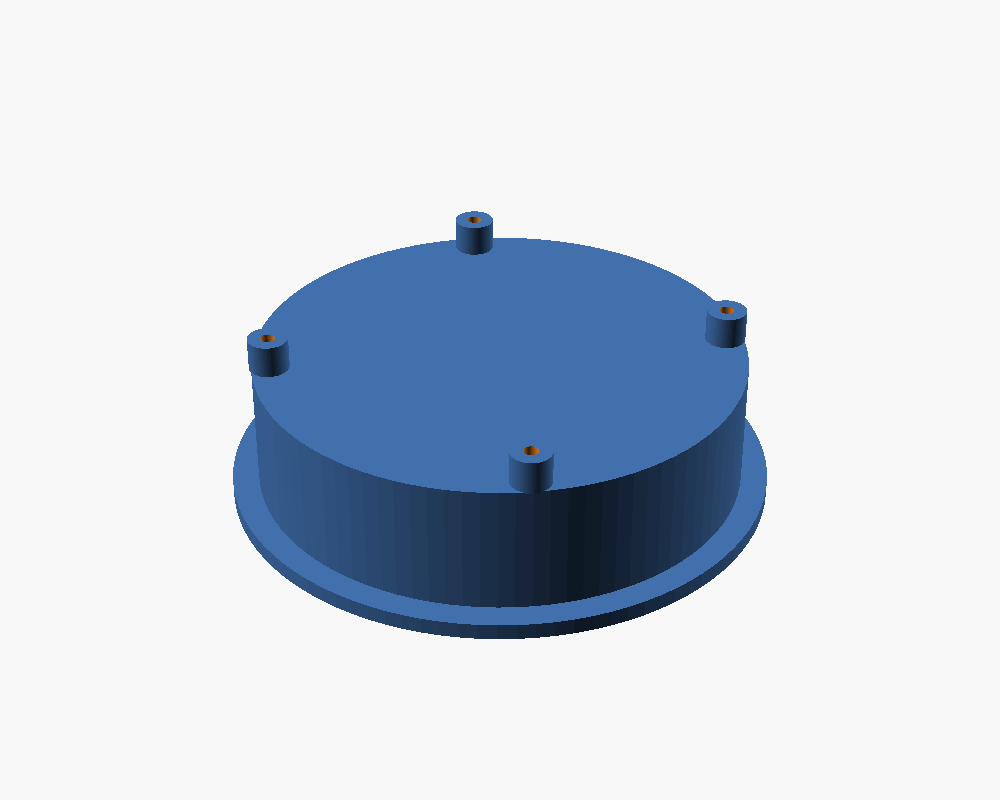
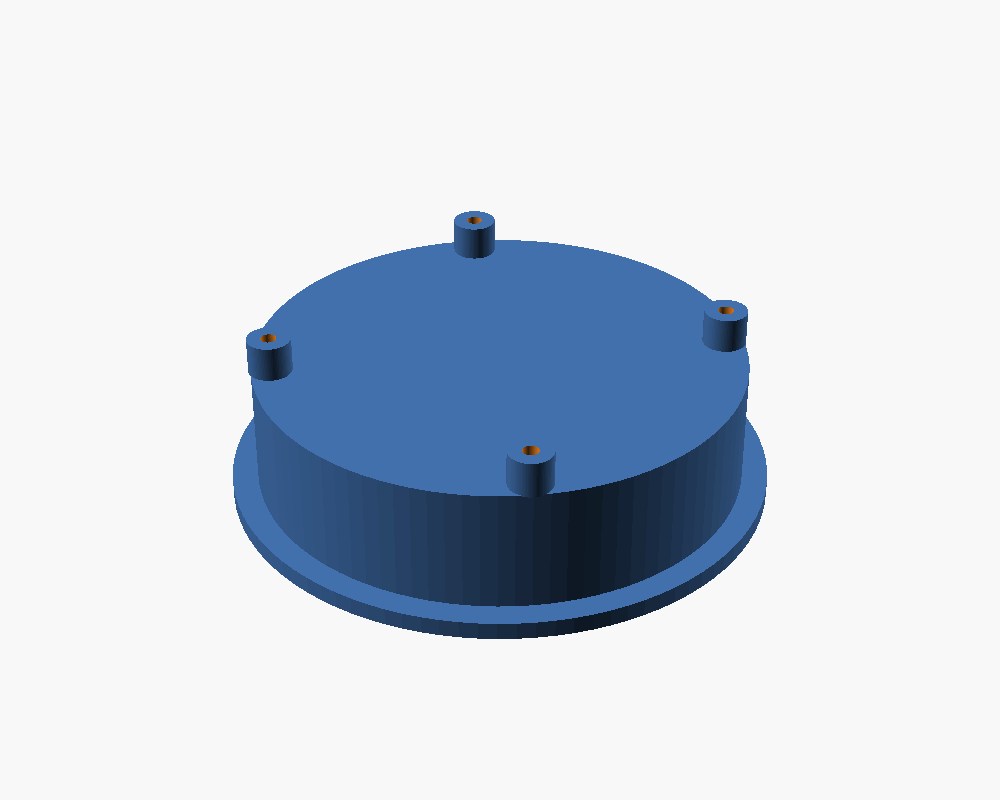
docs: 屏幕与主控定稿（1.43C-EN），遮光盖按新屏重算
- 选 1.43C 的决定性理由：1.75 的窗口压边只剩 0.6mm，一个打印公差就露 PCB
- 遮光盖 Ø68→Ø62（89% 球径），窗 Ø50→Ø39，板 Ø51.2→Ø46
- 眼睛像素 59×147→71×178（同 20% 球径，屏密度不同）
- README 关键尺寸、目录、进度同步

diff --git a/docs/14_screen_mcu.md b/docs/14_screen_mcu.md
@@ -1,0 +1,129 @@
+# 14 · 屏幕与主控：定稿方案
+
+> 球已验证（Ø70 实心半球，比例 20% 眼高效果确认）。这一章只解决一件事：**买哪块屏、哪块板**。
+> 结论一句话：**微雪 ESP32-S3-Touch-AMOLED-1.43C-EN**。
+
+---
+
+## 14.1 两个候选（都是微雪一体板，屏+主控+电源全集成）
+
+| | ① **1.43C-EN** | ② 1.75-B（31262） |
+|---|---|---|
+| SKU / 价格 | ¥173.72 | ¥179.78~209 |
+| 整板直径 | **Ø46.0** | Ø51.0 |
+| 屏有效区 | **Ø36.75** | Ø44.4 |
+| 屏占球径（Ø70） | **52.5%** | 63.5% |
+| 分辨率 | 466×466 | 466×466 |
+| 像素密度 | **316 ppi** | 266 ppi |
+| 板厚（屏/板） | 6.2 + 4.0 = 10.2 | 12.1 |
+| 触摸 | CST820 | CST9217 |
+| 双麦 + 编解码 | C 版有 | 有 |
+| IMU / RTC / TF / 电池座 | 全有 | 全有 |
+| 小智固件 | ⚠ 需确认 | ✅ 商品页写明支持 |
+
+---
+
+## 14.2 为什么选 1.43：**窗口压边**这一条就足够决定
+
+遮光盖中心要开一个窗，窗口必须满足两个条件：
+
+```
+屏直径  <  窗口直径  <  板直径
+（不挡显示）        （压住板边，不露出 PCB）
+```
+
+| 方案 | 屏 | 窗口 | 板 | **压边余量** |
+|---|---|---|---|---|
+| 1.43C | Ø36.75 | Ø39 | Ø46.0 | **单边 3.5mm** ✅ |
+| 1.75-B | Ø44.4 | Ø50 | Ø51.2 | **单边 0.6mm** ⚠ |
+
+1.75 那个 0.6mm，意味着：
+
+- 打印件公差 ±0.2、玻璃贴合偏差 ±0.1、屏幕本身公差 ±0.1 → 三项叠加就把余量吃完了
+- 一旦超差，窗口边缘会**露出一圈 PCB**（绿/黑板的边），正面看就是"黑面上有个亮环"
+- 而这个产品最不能出的问题就是"屏边可见"
+
+**1.43 的 3.5mm 压边，把这条路彻底堵死。**
+
+## 14.3 另外三条加分
+
+1. **像素密度高 19%**（316 vs 266 ppi）：眼睛 178px 高 vs 147px，玻璃后看边缘更干净
+2. **板小 5mm**：机身可以从 Ø58 收到 Ø56，在 Ø70 的球下更协调
+3. **便宜 ¥30~35**
+
+代价：小智固件支持要确认一次（见 14.6）。**这个风险可控**——最坏情况用通用 `esp32-s3-dev` 配置 + 自定义引脚，微雪的 ESP-IDF 例程是齐的。
+
+---
+
+## 14.4 尺寸重算（1.43 版）
+
+| 项 | 值 | 说明 |
+|---|---|---|
+| 球 | Ø70 实心半球，h=35 | 已有 |
+| **黑遮光盖** | **Ø62 × 2**（89% 球径） | 原来定 68，太贴边；62 能留 4mm 玻璃边，与参考产品一致 |
+| **中心窗** | **Ø39** | 屏 Ø36.75 + 压边 1.1 |
+| 遮光盖容腔 | Ø47.4 × 11.7 | 板 Ø46.2 + 单边 0.6 |
+| 主板 | Ø46 × 10.2 | 屏面朝前，落在窗里 |
+| 机身 | 约 Ø56 × 24 | 电池 + 喇叭 + 灯环 |
+| 整机 | 约 Ø70 × 66 | 比 1.75 方案矮 9mm |
+
+### 眼睛在新屏上的像素（466px / 36.75mm = 12.68 px/mm）
+
+| 项 | mm | px |
+|---|---|---|
+| 眼高 | 14.0（球径 20%） | **178** |
+| 眼宽 | 5.63（8.0%） | **71** |
+| 中心距 | 18.13（25.9%） | **230** |
+| 双眼总宽 | 23.76 | 301（屏宽 466，余 165）|
+
+> 换屏后 UI 参数要跟着改：`docs/13` 里的 59×147/190 是 1.75 的数，1.43 用 **71×178/230**。
+> 形状、动效、状态全部不变，只是数字缩放。
+
+---
+
+## 14.5 采购清单
+
+| # | 件 | 规格 | 数量 | 单价 |
+|---|---|---|---|---|
+| 1 | **主控+屏** | 微雪 **ESP32-S3-Touch-AMOLED-1.43C-EN** | 1 | ¥173.72 |
+| 2 | 锂电池 | 3.7V 1000mAh 带保护板，**MX1.25 2P** | 1 | ¥22 |
+| 3 | 喇叭 | Φ28 8Ω 2W 带腔体，**MX1.25 2P** | 1 | ¥12 |
+| 4 | Type-C 延长线 | 公转母 10cm 细线 | 1 | ¥8 |
+| 5 | 缓冲电池（可选） | 3.7V 300mAh，MX1.25 | 1 | ¥15 |
+
+**合计 ≈ ¥230**（含可选的缓冲电池）
+
+> 第 5 项的作用：AXP2101 在没有电池、只有外部 5V 时是最不可靠的工作点。¥15 换"工况确定 + 拿起不断电 + RTC 不走时"，值。
+
+---
+
+## 14.6 下单前必须确认的三件事
+
+| # | 问什么 | 为什么 | 如果答案是否 |
+|---|---|---|---|
+| 1 | **“1.43C 有没有小智（xiaozhi-esp32）的板卡配置？”** | 决定固件是"刷现成的"还是"自己配引脚" | 用通用 `esp32-s3-dev` 配置，按微雪例程填引脚，多花半天 |
+| 2 | **“C 版是不是带双麦克风和音频编解码？”** | 不带麦就做不了语音，只能当摆件 | 改买 1.43-B + 外接麦，麻烦 |
+| 3 | **“SKU 是多少？和 1.43-B / 1.43C-EN 什么区别？”** | 微雪同尺寸有 4 个 SKU，容易买错 | 以商品页的 SKU 号为准，别只看名字 |
+
+> 问完把客服的**原话截图**存下来。将来出问题，这是唯一能对质的证据。
+
+---
+
+## 14.7 到手验证（半小时内能做完）
+
+| 步 | 做什么 | 合格 |
+|---|---|---|
+| 1 | 卡尺量板径、屏有效区 | Ø46±0.3 / Ø36.75±0.3 |
+| 2 | 刷微雪官方 demo | 屏亮、触摸准、无坏点 |
+| 3 | 刷小智固件（或自己配） | 3m 内喊"你好小智"能应答 |
+| 4 | 测无电池工况 | 只接 5V，连续跑 30 分钟不重启 |
+| 5 | 装壳前测 RSSI | 记下来，装壳后再测一次对比 |
+
+第 4 步是本章唯一的真实风险点。**如果它会反复重启，就把第 5 项（300mAh 缓冲电池）插上**，问题立刻消失。
+
+---
+
+## 14.8 一句话总结
+
+**选 1.43 不是因为它更好看，是因为 1.75 的窗口只剩 0.6mm 压边——一个打印公差就能让 PCB 露出来。**
+在这个产品里，"屏边可见"是死刑，其他都是次要的。

diff --git a/README.md b/README.md
@@ -39,6 +39,7 @@
 | [docs/11_solid_ball.md](docs/11_solid_ball.md) | ★ **实心/空心/整球**的全部论证（为什么是半球） |
 | [docs/12_face_ui.md](docs/12_face_ui.md) | 面部 UI · 探索：五种设计语言 |
 | [docs/13_face_spec.md](docs/13_face_spec.md) | ★ **面部定稿「一滴光」**：token、七状态、行为引擎、验收 |
+| [docs/14_screen_mcu.md](docs/14_screen_mcu.md) | ★ **屏幕与主控定稿**：为什么选 1.43C、遮光盖重算、采购与验证 |
 | [hardware/hemisphere.py](hardware/hemisphere.py) | ★ 球径 → 屏占比 / 遮光板 / 眼睛像素 / 重量 |
 | [hardware/back_cover.scad](hardware/back_cover.scad) | ★ 遮光后盖参数化模型（改 `BALL_D` 一个数） |
 | [hardware/gen_face_assets.py](hardware/gen_face_assets.py) | 生成面部固件资源（bloom / hot / glint） |
@@ -58,13 +59,13 @@
 | 项 | 值 |
 |---|---|
 | 球壳 | **Ø70 实心半球**，高 35（平面过球心），亚克力 106.6g |
-| 屏 | 1.75" AMOLED，Ø44.4 有效区，466×466，**1px = 0.0954mm** |
-| 屏占比 | 63.5%，四周黑边 12.8mm |
-| 黑遮光盖 | **Ø68 × 2**，中心开 **Ø50** 窗，四角 M2 盲孔 |
-| 主板 | Ø51.2 × 12.1（屏板一体，屏在其前表面） |
-| 眼睛 | **59 × 147 px**（=5.6×14.0mm，20% 球径），中心距 190px（25.9%），y=236 |
-| 机身 | 约 Ø66 × 26，含 1000mAh + 喇叭 + 灯环 |
-| 整机 | 约 Ø70 × 75，**≈ 330g** |
+| 屏 | **1.43" AMOLED，Ø36.75 有效区**，466×466，**1px = 0.0789mm** |
+| 屏占比 | **52.5%**，四周黑边 16.6mm |
+| 黑遮光盖 | **Ø62 × 2**（89% 球径），中心开 **Ø39** 窗，四角 M2 盲孔 |
+| 主板 | Ø46 × 10.2（1.43C-EN，屏板一体，屏在其前表面） |
+| 眼睛 | **71 × 178 px**（=5.6×14.0mm，20% 球径），中心距 230px（25.9%），y=236 |
+| 机身 | 约 Ø56 × 24，含 1000mAh + 喇叭 + 灯环 |
+| 整机 | 约 Ø70 × 66，**≈ 300g** |
 
 > 参数改动请跑 `python hardware/hemisphere.py <球径>`，别手算。
 
@@ -78,8 +79,8 @@
 - [x] 面部 UI 定稿（v2，含行为引擎）
 - [x] 固件资源三张 PNG
 - [x] **球已买**：Ø70 实心半球 ¥28（烟林塑胶）
-- [ ] 球到货验收：称重 106.6g → 灯管测试 → 手机贴平面看眼睛
-- [ ] 定主板：1.43C-EN（Ø46/Ø36.75屏）或 1.75-B（Ø51/Ø44.4屏）
+- [x] 球到货验收：比例效果已确认（`tools/ball-test.html`）
+- [x] 定主板：**1.43C-EN**（见 docs/14）
 - [ ] 打遮光后盖 + 机身（`back_cover.scad`，`BALL_D=70`）
 - [ ] 电子联调（小智固件点亮）
 - [ ] LVGL 面部组件 + 真机验收
